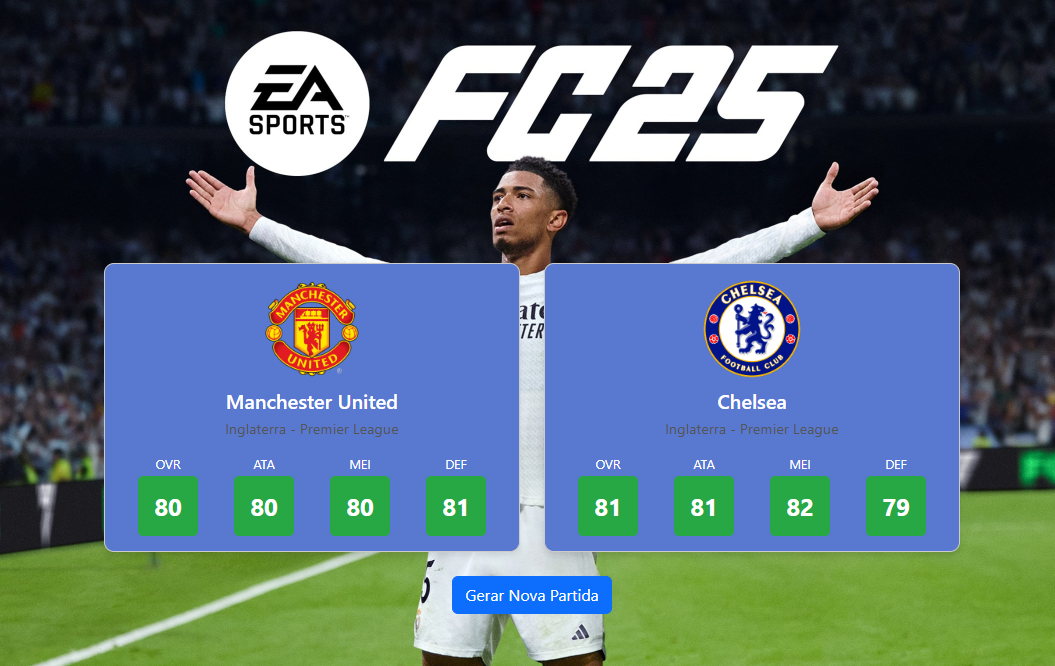
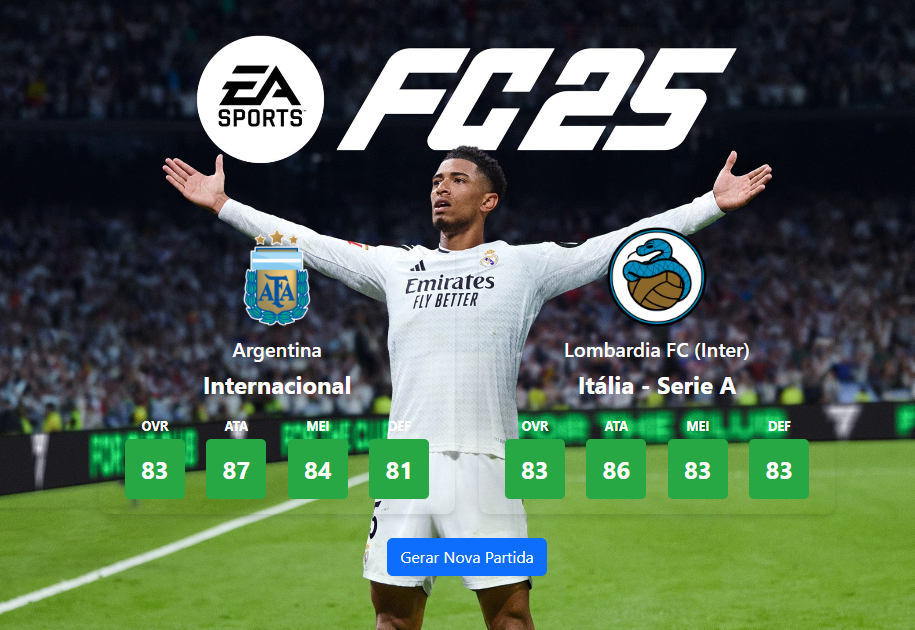
update layout

diff --git a/templates/index.html b/templates/index.html
@@ -1,6 +1,7 @@
 <!DOCTYPE html>
 <html lang="en">
 <head>
+    <link rel="icon" href="https://www.ea.com/assets/images/favicon.png" type="image/png">
     <meta charset="UTF-8">
     <meta name="viewport" content="width=device-width, initial-scale=1.0">
     <title>Gerador de Partidas</title>
@@ -20,7 +21,9 @@
             justify-content: center;  
             color: #fff; 
         }
-        .team-card {
+        
+/*FUNDO OPACO        
+/*        .team-card {
             border: 1px solid #ccc;
             border-radius: 10px;
             padding: 15px;
@@ -28,34 +31,40 @@
             text-align: center;
             box-shadow: 0px 4px 6px rgba(0, 0, 0, 0.1);
         }
+*/
 
 /*FUNDO TRANSPARENTE
-.team-card {
-    border: 1px solid #ccc;
-    border-radius: 10px;
-    padding: 15px;
-    background: transparent; /* Fundo completamente transparente 
-    text-align: center;
-    box-shadow: 0px 4px 6px rgba(0, 0, 0, 0.1);
-}
+*/
+        .team-card {
+            border: none;
+            border-radius: 10px;
+            padding: 15px;
+            background: transparent;
+            text-align: center;
+            box-shadow: 0px 4px 6px rgba(0, 0, 0, 0.1);
+        }
 
-*/       
         .team-card img {
             max-width: 100px;
             margin-bottom: 10px;
         }
+
         .team-card h5 {
             font-size: 1.25rem;
             margin-bottom: 5px;
         }
+
         .team-card p {
-            font-size: 0.9rem;
-            color: #555;
+            font-size: 1.5rem;
+            color: #ffffff;
+            font-weight: bold;
         }
+
         .stats-container {
             display: flex;
             justify-content: space-around;
             margin-top: 15px;
+            font-weight: bold;
         }
 
         .stats-box {
@@ -78,6 +87,7 @@
         line-height: 1.2; 
         text-align: center; 
         }
+
     </style>
 </head>
 <body>
